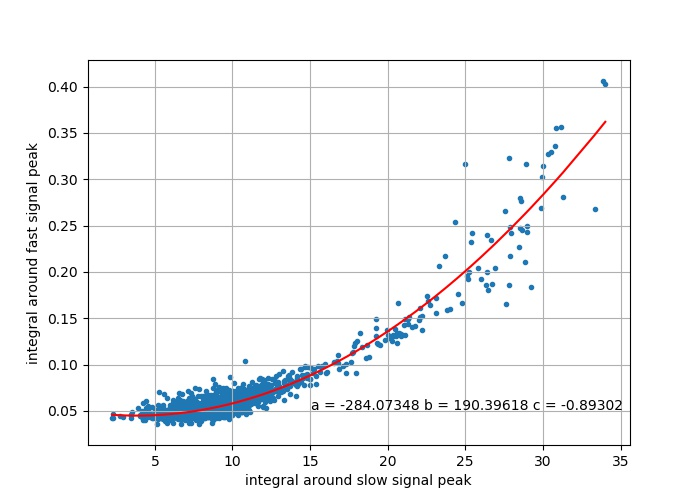
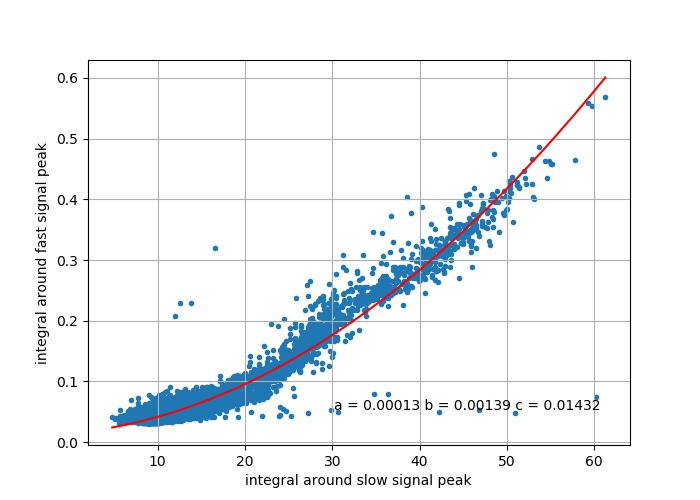
analysis updates on new data

diff --git a/software/correlator.py b/software/correlator.py
@@ -47,7 +47,8 @@ slowdata	= slowdata[:,minindex:maxindex]
 #classify into single signal and multiple signal first
 
 cutoff		= 5/origscale
-noisethres	= 6/origscale
+noiserms	= 1.09
+noisethres	= noiserms*3/origscale
 minpeakval	= 0.015
 
 monosgnl   	= []	#signals with a single peak
@@ -141,7 +142,7 @@ ax = plt.gca()
 ax.set_xlabel('integral around slow signal peak')
 ax.set_ylabel('integral around fast signal peak')
 plt.grid()
-plt.text(0.7, 0.1,'m = ' + '%.5f' % np.polyfit(fastint, slowint, 1)[0] + ' b = ' + '%.5f' % np.polyfit(fastint, slowint, 1)[1],
+plt.text(0.7, 0.1,'m = ' + '%.5f' % np.polyfit(slowint, fastint, 1)[0] + ' b = ' + '%.5f' % np.polyfit(slowint, fastint, 1)[1],
      horizontalalignment='center',
      verticalalignment='center',
      transform = ax.transAxes)
@@ -156,7 +157,7 @@ ax = plt.gca()
 ax.set_xlabel('integral around slow signal peak')
 ax.set_ylabel('integral around fast signal peak')
 plt.grid()
-plt.text(0.7, 0.1,'a = ' + '%.5f' % np.polyfit(fastint, slowint, 2)[0] + ' b = ' + '%.5f' % np.polyfit(fastint, slowint, 2)[1] + ' c = ' + '%.5f' % np.polyfit(fastint, slowint, 2)[2], horizontalalignment='center', verticalalignment='center', transform = ax.transAxes)
+plt.text(0.7, 0.1,'a = ' + '%.5f' % np.polyfit(slowint, fastint, 2)[0] + ' b = ' + '%.5f' % np.polyfit(slowint, fastint, 2)[1] + ' c = ' + '%.5f' % np.polyfit(slowint, fastint, 2)[2], horizontalalignment='center', verticalalignment='center', transform = ax.transAxes)
 #plt.show()
 plt.savefig('peakint_pobf.jpg')
 plt.close()
@@ -168,7 +169,7 @@ ax = plt.gca()
 ax.set_xlabel('integral around slow signal peak')
 ax.set_ylabel('integral around fast signal peak')
 plt.grid()
-plt.text(0.7, 0.1,'a = ' + '%.5f' % np.polyfit(newfastint, newslowint, 2)[0] + ' b = ' + '%.5f' % np.polyfit(newfastint, newslowint, 2)[1] + ' c = ' + '%.5f' % np.polyfit(newfastint, newslowint, 2)[2], horizontalalignment='center', verticalalignment='center', transform = ax.transAxes)
+plt.text(0.7, 0.1,'a = ' + '%.5f' % np.polyfit(newslowint, newfastint, 2)[0] + ' b = ' + '%.5f' % np.polyfit(newslowint, newfastint, 2)[1] + ' c = ' + '%.5f' % np.polyfit(newslowint, newfastint, 2)[2], horizontalalignment='center', verticalalignment='center', transform = ax.transAxes)
 #plt.show()
 plt.savefig('newpeakint_pobf.jpg')
 plt.close()
@@ -227,14 +228,115 @@ plt.text(0.7, 0.1,'m = ' + '%.5f' % np.polyfit(newslowloc, newfastloc, 1)[0] + '
      verticalalignment='center',
      transform = ax.transAxes)
 #plt.show()
-plt.savefig('peakloc_lobf.jpg')
+plt.savefig('newpeakloc_lobf.jpg')
 plt.close()
 
-locdiff = newslowloc - newfastloc
+trnsgrsrs = []
+
+def error(i):
+	return newfastloc[i] - np.polyfit(newslowloc, newfastloc, 1)[0]*newslowloc[i] - np.polyfit(newslowloc, newfastloc, 1)[1]
+
+for i in range(np.shape(newpeaks)[1]):
+	err = error(i)
+	if np.abs(err) > 2:
+		trnsgrsrs.append([i,err])
+#		plt.figure(figsize=(7,5))
+#		plt.plot(time, expndata[monosgnl[i]], 'y', time, sgnldata[monosgnl[i]], 'b')
+		#plt.legend()
+#		plt.grid()
+		#plt.show()
+#		plt.savefig(filenames[newmonosgnl[i]] + '.jpg')
+#		plt.close()
+
+trnsgrsrs = np.asarray(trnsgrsrs).astype(int)
+
+print(trnsgrsrs[:,0])
+
+cleanfastint = np.delete(newfastint, trnsgrsrs[:,0], 0)
+cleanslowint = np.delete(newslowint, trnsgrsrs[:,0], 0)
+cleanfastloc = np.delete(newfastloc, trnsgrsrs[:,0], 0)
+cleanslowloc = np.delete(newslowloc, trnsgrsrs[:,0], 0)
+cleanmonosgnl = np.delete(newmonosgnl, trnsgrsrs[:,0], 0)
 
 plt.figure(figsize=(7,5))
-plt.scatter(newslowint, locdiff, marker='.')
-plt.plot(np.unique(newslowint), np.poly1d(np.polyfit(newslowint, locdiff, 1))(np.unique(newslowint)), 'r')
+plt.scatter(cleanslowint, cleanfastint, marker='.')
+ax = plt.gca()
+ax.set_xlabel('integral around slow signal peak without anomalies')
+ax.set_ylabel('integral around fast signal peak without anomalies')
+plt.grid()
+#plt.show()
+plt.savefig('cleanint_correlation.jpg')
+plt.close()
+
+plt.figure(figsize=(7,5))
+plt.scatter(cleanslowint, cleanfastint, marker='.')
+ax = plt.gca()
+ax.set_xlabel('integral around slow signal peak without anomalies')
+ax.set_ylabel('integral around fast signal peak without anomalies')
+
+j = 0
+for i in cleanmonosgnl:
+	ax.annotate(Original[i][0], (cleanslowint[j], cleanfastint[j]))
+	j += 1
+
+plt.grid()
+#plt.show()
+plt.savefig('labeled_cleanint_correlation.jpg')
+plt.close()
+
+plt.figure(figsize=(7,5))
+plt.scatter(cleanslowint, cleanfastint, marker='.')
+plt.plot(np.unique(cleanslowint), np.poly1d(np.polyfit(cleanslowint, cleanfastint, 1))(np.unique(cleanslowint)), 'r')
+ax = plt.gca()
+ax.set_xlabel('integral around slow signal peak')
+ax.set_ylabel('integral around fast signal peak')
+plt.grid()
+plt.text(0.7, 0.1,'m = ' + '%.5f' % np.polyfit(cleanslowint, cleanfastint, 1)[0] + ' b = ' + '%.5f' % np.polyfit(cleanslowint, cleanfastint, 1)[1],
+     horizontalalignment='center',
+     verticalalignment='center',
+     transform = ax.transAxes)
+#plt.show()
+plt.savefig('cleanint_lobf.jpg')
+plt.close()
+
+plt.figure(figsize=(7,5))
+plt.scatter(cleanslowint, cleanfastint, marker='.')
+plt.plot(np.unique(cleanslowint), np.poly1d(np.polyfit(cleanslowint, cleanfastint, 2))(np.unique(cleanslowint)), 'r')
+ax = plt.gca()
+ax.set_xlabel('integral around slow signal peak')
+ax.set_ylabel('integral around fast signal peak')
+plt.grid()
+plt.text(0.7, 0.1,'a = ' + '%.5f' % np.polyfit(cleanslowint, cleanfastint, 2)[0] + ' b = ' + '%.5f' % np.polyfit(cleanslowint, cleanfastint, 2)[1] + ' c = ' + '%.5f' % np.polyfit(cleanslowint, cleanfastint, 2)[2], horizontalalignment='center', verticalalignment='center', transform = ax.transAxes)
+#plt.show()
+plt.savefig('cleanint_pobf.jpg')
+plt.close()
+
+plt.figure(figsize=(7,5))
+plt.scatter(cleanslowloc, cleanfastloc, marker='.')
+plt.plot(np.unique(cleanslowloc), np.poly1d(np.polyfit(cleanslowloc, cleanfastloc, 1))(np.unique(cleanslowloc)), 'r')
+ax = plt.gca()
+ax.set_xlabel('location of slow signal peak')
+ax.set_ylabel('location of fast signal peak')
+
+j = 0
+for i in cleanmonosgnl:
+	ax.annotate(Original[i][0], (cleanslowloc[j], cleanfastloc[j]))
+	j += 1
+
+plt.grid()
+plt.text(0.7, 0.1,'m = ' + '%.5f' % np.polyfit(cleanslowloc, cleanfastloc, 1)[0] + ' b = ' + '%.5f' % np.polyfit(cleanslowloc, cleanfastloc, 1)[1],
+     horizontalalignment='center',
+     verticalalignment='center',
+     transform = ax.transAxes)
+#plt.show()
+plt.savefig('cleanpeakloc_lobf.jpg')
+plt.close()
+
+locdiff = cleanslowloc - cleanfastloc
+
+plt.figure(figsize=(7,5))
+plt.scatter(cleanslowint, locdiff, marker='.')
+plt.plot(np.unique(cleanslowint), np.poly1d(np.polyfit(cleanslowint, locdiff, 1))(np.unique(cleanslowint)), 'r')
 ax = plt.gca()
 ax.set_xlabel('integral around slow signal peak')
 ax.set_ylabel('slow signal peak location - fast signal peak location')
@@ -245,64 +347,16 @@ ax.set_ylabel('slow signal peak location - fast signal peak location')
 #	j += 1
 
 plt.grid()
-plt.text(0.7, 0.1,'m = ' + '%.5f' % np.polyfit(newslowint, locdiff, 1)[0] + ' b = ' + '%.5f' % np.polyfit(newslowint, locdiff, 1)[1],
+plt.text(0.7, 0.1,'m = ' + '%.5f' % np.polyfit(cleanslowint, locdiff, 1)[0] + ' b = ' + '%.5f' % np.polyfit(cleanslowint, locdiff, 1)[1],
      horizontalalignment='center',
      verticalalignment='center',
      transform = ax.transAxes)
 #plt.show()
-plt.savefig('slowint_peaklocdiff_correlation.jpg')
+plt.savefig('cleanslowint_peaklocdiff_correlation.jpg')
 plt.close()
 
-"""trnsgrsrs = []
 
-def error(i):
-	return slowint[i] - 10.99*fastlint[i] + 207.29
-
-for i in range(mononum):
-	err = error(i)
-	if np.abs(err) > 150:
-		trnsgrsrs.append([i,err])
-		plt.figure(figsize=(7,5))
-		plt.plot(time, expndata[monosgnl[i]], 'y', time, sgnldata[monosgnl[i]], 'b')
-		#plt.legend()
-		plt.grid()
-		#plt.show()
-		plt.savefig(filenames[monosgnl[i]] + '.jpg')
-		plt.close()
-
-trnsgrsrs = np.asarray(trnsgrsrs).astype(int)
-
-print(trnsgrsrs[:,0])
-
-cleansgnlint = np.delete(sgnlint, trnsgrsrs[:,0], 0)
-cleanexpnint = np.delete(expnint, trnsgrsrs[:,0], 0)
-
-plt.figure(figsize=(7,5))
-plt.scatter(cleansgnlint, cleanexpnint)
-ax = plt.gca()
-ax.set_xlabel('integral around original signal peak without anomalies')
-ax.set_ylabel('integral around stretched signal peak without anomalies')
-plt.grid()
-#plt.show()
-plt.savefig('cleanint_correlation.jpg')
-plt.close()
-
-plt.figure(figsize=(7,5))
-plt.scatter(cleansgnlint, cleanexpnint)
-plt.plot(np.unique(cleansgnlint), np.poly1d(np.polyfit(cleansgnlint, cleanexpnint, 1))(np.unique(cleansgnlint)), 'r')
-ax = plt.gca()
-ax.set_xlabel('integral around original signal peak')
-ax.set_ylabel('integral around stretched signal peak')
-plt.grid()
-plt.text(0.7, 0.1,'m = ' + '%.5f' % np.polyfit(cleansgnlint, cleanexpnint, 1)[0] + ' b = ' + '%.5f' % np.polyfit(cleansgnlint, cleanexpnint, 1)[1],
-     horizontalalignment='center',
-     verticalalignment='center',
-     transform = ax.transAxes)
-#plt.show()
-plt.savefig('cleanint_lobf.jpg')
-plt.close()
-
-cleanerr = sgnlint - (expnint + 226.62)/11.43
+"""cleanerr = sgnlint - (expnint + 226.62)/11.43
 
 plt.figure(figsize=(7,5))
 plt.hist(cleanerr, bins=100, label = 'error distribution')
